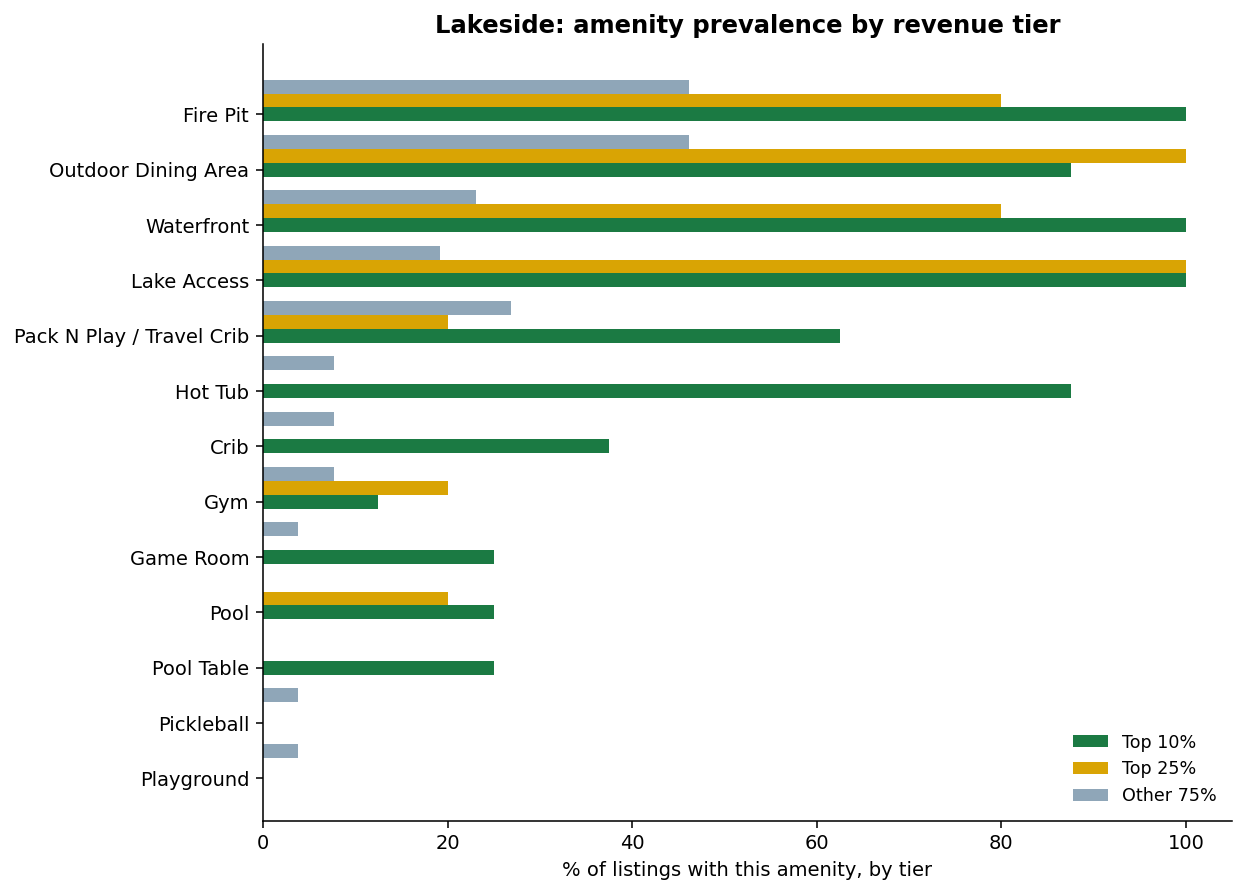
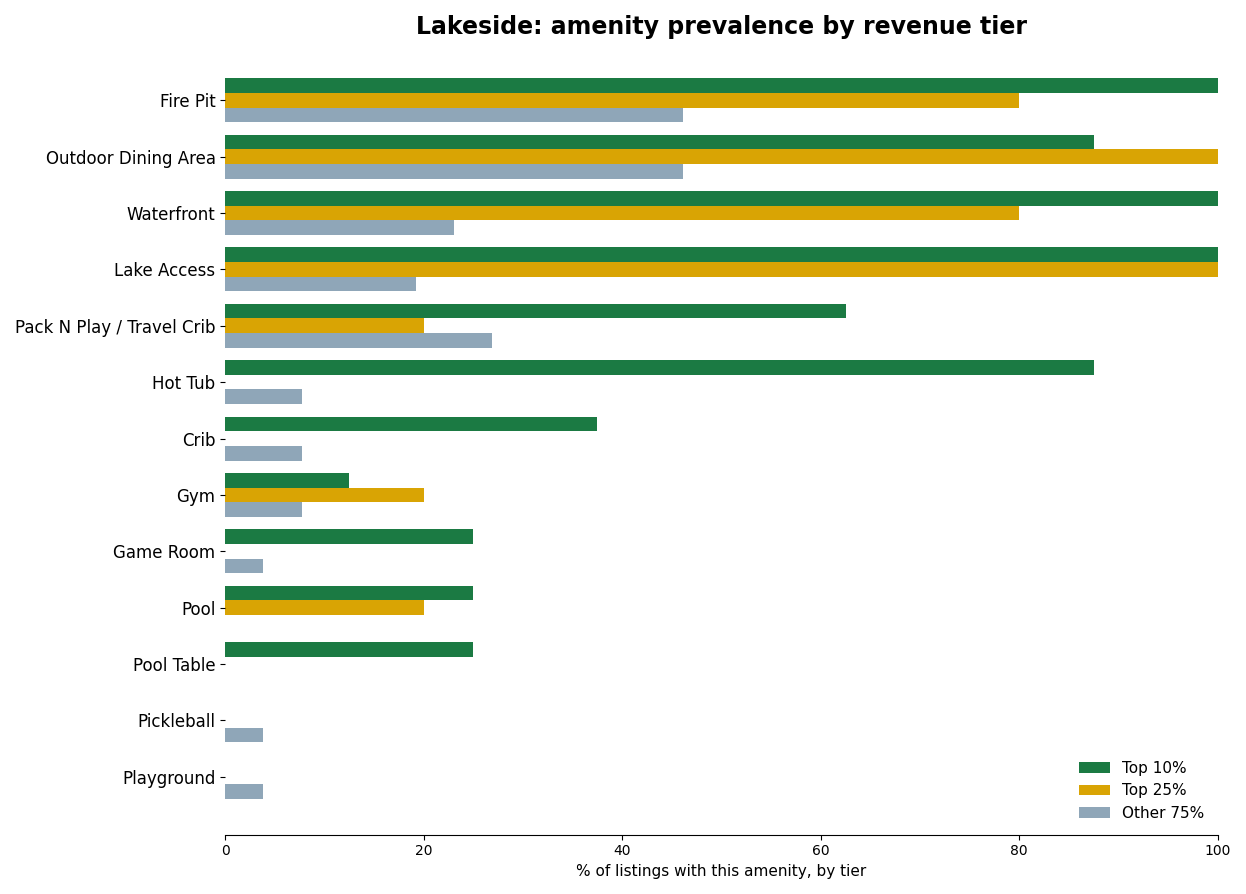
Rework Lake's amenity Must-Have/Nice-to-Have rules and add Clearwater-style amenity evidence
New Must-Have rule (per direct instruction): an amenity qualifies if it
clears EITHER bar -- >=40% penetration among Lakeside's Top 10% listings
(N=8), or >=60% presence across the whole Lakeside market (N=39). All
figures recomputed directly from Charlotte NC - Market Eval - Walid.xlsx
(Cleaned_Data_With_Region, filtered to Region=Lakeside, N=39).

Must-Have's: Fire Pit, Outdoor Dining Area, Waterfront, Lake Access,
Pack 'N Play / Travel Crib, and Hot Tub all clear the new rule (Hot Tub
and Outdoor Dining Area move up from the old Nice-to-Have ranking).
Crib does NOT clear either bar (37.5% of Top 10%, 12.8% of the whole
market) despite being on the requested must-have list -- flagged
explicitly in the section body and instead ranked as the #1 Nice-to-Have
by composite score, rather than silently forcing it into Must-Have
against the stated rule or silently dropping it.

Nice-to-Have, Ranked: minimum sample size for inclusion lowered from
N>=9 to N>=2, using the exact same composite-score methodology already
established (median revenue uplift + Top-10%-hit-rate uplift + N, each
min-max normalized). Now ranks 5 items instead of 3: Crib (0.70), Pool
Table (0.67), Game Room (0.60), Pool (0.49), Gym (0.22). Pickleball
stays excluded -- still N=1 even under the new N>=2 floor, and its one
listing actually underperforms the market without it, which directly
answers the open "maybe Pickleball?" question with data instead of
guessing.
[…]

Changed region(s): [[0.0, 0.0, 0.9759, 0.7852], [0.2135, 0.8154, 0.9759, 0.9966], [0.0915, 0.7852, 0.244, 0.906]]

diff --git a/js/data.js b/js/data.js
@@ -678,57 +678,68 @@ const BUY_BOXES = [
       {
         title: "Amenity Prevalence By Tier",
         body:
-          "<p>Fire Pit, Waterfront, and Lake Access sit at 100% among Lakeside's Top 10% and fall off sharply outside it — that gap is the Must-Have list below. Everything else either stays flat across tiers (no signal) or only partially separates Top 10% from the rest (a nice-to-have, ranked further down). The heatmap shows the same data at the individual-listing level, sorted Top 10% → Top 25% → Other 75%.</p>",
+          "<p><strong>Must-Have rule (updated):</strong> an amenity is a Must-Have if it clears <em>either</em> bar — ≥40% penetration among Lakeside's Top 10% listings (N=8), or ≥60% presence across the whole Lakeside market (N=39). Six amenities clear at least one: Fire Pit (100% Top 10% / 61.5% whole), Waterfront (100% / 46.2%), Lake Access (100% / 46.2%), Hot Tub (87.5% / 23.1%), Outdoor Dining Area (87.5% / 61.5%), and Pack 'N Play / Travel Crib (62.5% / 33.3%). <strong>Crib</strong> falls just short of both bars (37.5% Top 10% / 12.8% whole) despite being a related amenity to Pack 'N Play — it's ranked as the top Nice-to-Have below instead of a Must-Have. Everything else stays too flat across tiers to separate Top 10% from the rest. The heatmap shows the same data at the individual-listing level, sorted Top 10% → Top 25% → Other 75%.</p>",
         chartsRow: [
-          photo("lake/charts/amenity_prevalence.png", "Grouped bar chart of amenity prevalence by revenue tier for Lakeside listings", "Amenity prevalence by tier (N=39)."),
+          photo("lake/charts/amenity_prevalence.png", "Grouped bar chart of amenity prevalence by revenue tier for Lakeside listings, Top 10% drawn on top of each group", "Amenity prevalence by tier (N=39) — Top 10% (green) drawn on top of each group, then Top 25%, then Other 75%."),
           photo("lake/charts/amenity_heatmap.png", "Heatmap of amenity presence per listing, sorted Top 10% to Other 75%", "Amenity presence by individual listing (N=39)."),
         ],
       },
       {
         title: "Must-Have's",
-        body: "<p>The only amenities present in 100% of Lakeside's Top 10% listings (N=8) — everything else is a nice-to-have, ranked below.</p>",
-        items: ["Fire Pit", "Waterfront", "Lake Access"],
+        body: "<p>Clears the ≥40%-of-Top-10%-or-≥60%-of-whole-market bar above (N=8 Top 10% / N=39 whole).</p>",
+        items: ["Fire Pit", "Outdoor Dining Area", "Waterfront", "Lake Access", "Pack 'N Play / Travel Crib", "Hot Tub"],
         images: [
           photo("lake/firepit/beach-firepit-dock.avif", "Small fire bowl on a sandy lake beach with a dock in the background", "A fire pit set up right at the water's edge — Fire Pit and Waterfront together, not two separate features here."),
           photo("lake/firepit/beach-firepit-chairs.avif", "Adirondack chairs around a fire pit on a sandy beach facing the lake and a dock", "Adirondack-chair fire pit seating on the beach, facing the dock."),
+          photo("lake/porch/screened-porch-firepit-table.avif", "Screened porch with a wicker sectional and a fire-pit dining table, lake visible through the windows", "Reference example: a screened porch combining outdoor dining and lounge seating."),
+          photo("lake/hottub/covered-porch-lake-view.avif", "Hot tub on a covered porch overlooking a lake and dock", "Reference example: a covered-porch hot tub facing the lake."),
+          photo("lake/hottub/night-lit.avif", "Hot tub lit blue at night in a backyard setting", "Reference example: a nighttime hot tub setup."),
+        ],
+      },
+      // Amenity Evidence -- Clearwater's "Amenity Combination Evidence"
+      // pattern (5BR buy box), ported to Lake per direct request: a median
+      // with-vs-without revenue comparison per amenity, "where necessary" --
+      // i.e. for the ambiguous Nice-to-Have candidates only, not the
+      // Must-Haves above (already covered by the prevalence chart). This is
+      // also what settles the open "Pickleball?" question: N=1 in all of
+      // Lakeside, and that one listing underperforms -- excluded below.
+      {
+        title: "Amenity Evidence: With vs. Without",
+        body:
+          "<p>For each Nice-to-Have candidate below, Lakeside's median Revenue Potential with vs. without that amenity (N=39). Every \"with\" group is 1-5 listings — directional evidence only, not proof that the amenity itself causes the difference. This is also the evidence behind excluding Pickleball: its lone listing (N=1) actually earns less than the market without it.</p>",
+        charts: [
+          photo("lake/charts/amenity_with_without.png", "Six small bar charts, each comparing median Lakeside revenue with vs. without one amenity: Pool Table, Game Room, Pool, Crib, Gym, and Pickleball", "Pool Table (+280%), Game Room (+250%), Pool (+168%), and Crib (+173%) show the strongest separation; Gym (+24%) is marginal; Pickleball (-3%) is negative and N=1."),
         ],
       },
       // Nice-to-Have, Ranked -- Clearwater's 5BR structure (score / revenue
       // uplift / Top-10%-hit-rate uplift / N per item, thin-data items
       // flagged rather than dropped, no Auto-Add tier). Score here is our
-      // own transparent composite (revenue uplift + hit-rate uplift +
-      // sample size, each min-max normalized across the rankable amenities)
-      // since Clearwater's exact weights weren't supplied to us -- same
-      // shape, our own math. Photos pending for every item -- add via
-      // photo(relPath, alt, caption) into each item's `images` once supplied.
+      // own transparent composite (median revenue uplift + Top-10%-hit-rate
+      // uplift + sample size, each min-max normalized across the rankable
+      // amenities) since Clearwater's exact weights weren't supplied to us
+      // -- same shape, same math as before, just re-run with the new N≥2
+      // floor and Crib/Gym/Pool/Game Room/Pool Table now included (Hot Tub,
+      // Outdoor Dining Area, and Pack 'N Play moved up to Must-Have above).
       {
         // No outer `title` here -- niceToHaveRankedBlock() already renders
         // its own "Nice-to-Have, Ranked" <h4>, so an outer <h3> with the
         // same text would just duplicate the heading.
         ranked: {
-          note: "Ranked by composite score among amenities with N≥9 in Lakeside; everything thinner is flagged, not dropped, matching Clearwater's own treatment of its thin amenities (Movie Theater, Sauna, Golf Simulator). Photos pending for every item.",
+          note: "N≥2 is now the minimum to rank in Lakeside (was N≥9) — everything thinner (N≤1) is flagged, not dropped, matching Clearwater's own treatment of its thin amenities (Movie Theater, Sauna, Golf Simulator). Photos pending for Crib and Gym.",
           items: [
-            { name: "Hot Tub", score: 0.67, revenueUplift: "+191%", p90Uplift: "+74pp", n: 9, note: "By far the strongest signal in Lakeside — 78% of hot-tub-flagged listings reach the market's Top 10%, vs. 3% without. N=9 is still small; treat as directional, not proven.", images: [
-              photo("lake/hottub/covered-porch-lake-view.avif", "Hot tub on a covered porch overlooking a lake and dock", "Reference example: a covered-porch hot tub facing the lake."),
-              photo("lake/hottub/night-lit.avif", "Hot tub lit blue at night in a backyard setting", "Reference example: a nighttime hot tub setup."),
-            ] },
-            { name: "Outdoor Dining Area", score: 0.37, revenueUplift: "+40%", p90Uplift: "+23pp", n: 24, note: "Already the region's most common non-must-have amenity (24 of 39) — a real but smaller relative lift than Hot Tub.", images: [
-              photo("lake/porch/screened-porch-firepit-table.avif", "Screened porch with a wicker sectional and a fire-pit dining table, lake visible through the windows", "Reference example: a screened porch combining outdoor dining and lounge seating."),
-            ] },
-            { name: "Pack 'N Play / Travel Crib", score: 0.12, revenueUplift: "+24%", p90Uplift: "+27pp", n: 13, note: "Weakest of the rankable amenities — present, but not a strong differentiator here.", images: [] },
-            { name: "Crib", n: 5, thinData: true, note: "N=5, too thin to rank reliably.", images: [] },
-            { name: "Gym", n: 4, thinData: true, note: "N=4, too thin to rank reliably.", images: [] },
-            { name: "Pool", n: 3, thinData: true, note: "N=3, too thin to rank reliably.", images: [
-              photo("lake/pool/aerial-kidney-pool.avif", "Aerial view of a kidney-shaped pool with a screened porch and brick patio", "Reference example: a kidney-shaped pool and brick patio."),
-            ] },
-            { name: "Game Room", n: 3, thinData: true, note: "N=3, too thin to rank reliably.", images: [
-              photo("lake/gameroom/game-room-sign.avif", "Game room with a pool table, sectional sofa, and arcade cabinet under a GAME ROOM sign", "Reference example: a dedicated game room with a pool table and arcade cabinet."),
-            ] },
-            { name: "Pool Table", n: 2, thinData: true, note: "N=2, too thin to rank reliably.", images: [
+            { name: "Crib", score: 0.70, revenueUplift: "+173%", p90Uplift: "+45pp", n: 5, note: "Highest score of any Nice-to-Have — falls just short of the Must-Have bars above (37.5% of Top 10%, 12.8% of the whole market) but shows the strongest revenue signal.", images: [] },
+            { name: "Pool Table", score: 0.67, revenueUplift: "+280%", p90Uplift: "+84pp", n: 2, note: "Smallest sample of any ranked item (N=2), but both pool-table listings reach the market's Top 10% — the highest hit-rate uplift here.", images: [
               photo("lake/pooltable/lake-view-room.avif", "Living room with a pool table and sectional sofa, sliding doors opening to a lake and dock view", "Reference example: a pool table room opening directly onto a lake/dock view."),
             ] },
-            { name: "Pickleball", n: 1, thinData: true, note: "N=1, too thin to rank reliably.", images: [] },
-            { name: "Playground", n: 1, thinData: true, note: "N=1, too thin to rank reliably.", images: [] },
+            { name: "Game Room", score: 0.60, revenueUplift: "+250%", p90Uplift: "+50pp", n: 3, note: "Second-highest revenue uplift of any Nice-to-Have, on N=3.", images: [
+              photo("lake/gameroom/game-room-sign.avif", "Game room with a pool table, sectional sofa, and arcade cabinet under a GAME ROOM sign", "Reference example: a dedicated game room with a pool table and arcade cabinet."),
+            ] },
+            { name: "Pool", score: 0.49, revenueUplift: "+168%", p90Uplift: "+50pp", n: 3, note: "Strong revenue signal, same hit-rate uplift as Game Room, on N=3.", images: [
+              photo("lake/pool/aerial-kidney-pool.avif", "Aerial view of a kidney-shaped pool with a screened porch and brick patio", "Reference example: a kidney-shaped pool and brick patio."),
+            ] },
+            { name: "Gym", score: 0.22, revenueUplift: "+24%", p90Uplift: "+5pp", n: 4, note: "Weakest signal of the rankable amenities — present, but a marginal differentiator here.", images: [] },
+            { name: "Pickleball", n: 1, thinData: true, note: "N=1 in all of Lakeside — below even the new N≥2 minimum, and that one listing has lower revenue than the market without it (see Amenity Evidence chart above). Not recommended, despite being a common ask.", images: [] },
+            { name: "Playground", n: 1, thinData: true, note: "N=1, below the new N≥2 minimum.", images: [] },
             { name: "Sauna", n: 0, thinData: true, note: "Never observed in Lakeside (N=0).", images: [] },
             { name: "Mini Golf", n: 0, thinData: true, note: "Never observed in Lakeside (N=0).", images: [] },
             { name: "Movie Theater", n: 0, thinData: true, note: "Never observed in Lakeside (N=0).", images: [] },

diff --git a/index.html b/index.html
@@ -7,7 +7,7 @@
 <link rel="stylesheet" href="https://unpkg.com/leaflet@1.9.4/dist/leaflet.css" />
 <link rel="preconnect" href="https://fonts.googleapis.com" />
 <link href="https://fonts.googleapis.com/css2?family=Inter:wght@400;500;600;700&display=swap" rel="stylesheet" />
-<link rel="stylesheet" href="css/styles.css?v=20260907-hero1" />
+<link rel="stylesheet" href="css/styles.css?v=20260908-amen1" />
 </head>
 <body>
 
@@ -61,7 +61,7 @@
     <div class="container">
       <p class="section-kicker">Section 3</p>
       <h2>Location Analysis</h2>
-      <iframe class="embedded-map embedded-map--tall" src="assets/overview/charlotte_overview_map.html?v=20260907-hero1" loading="lazy" title="Interactive map of Charlotte STR revenue tiers, Downtown/Outskirts/Lakeside regions, and demand-driver landmarks"></iframe>
+      <iframe class="embedded-map embedded-map--tall" src="assets/overview/charlotte_overview_map.html?v=20260908-amen1" loading="lazy" title="Interactive map of Charlotte STR revenue tiers, Downtown/Outskirts/Lakeside regions, and demand-driver landmarks"></iframe>
       <div id="map-interpretation" class="section-interpretation"></div>
     </div>
   </section>
@@ -140,10 +140,10 @@
 
 <script src="https://unpkg.com/leaflet@1.9.4/dist/leaflet.js"></script>
 <script src="https://cdn.jsdelivr.net/npm/chart.js@4.4.4/dist/chart.umd.min.js"></script>
-<script src="js/data.js?v=20260907-hero1"></script>
-<script src="js/render.js?v=20260907-hero1"></script>
-<script src="js/charts.js?v=20260907-hero1"></script>
-<script src="js/map.js?v=20260907-hero1"></script>
-<script src="js/main.js?v=20260907-hero1"></script>
+<script src="js/data.js?v=20260908-amen1"></script>
+<script src="js/render.js?v=20260908-amen1"></script>
+<script src="js/charts.js?v=20260908-amen1"></script>
+<script src="js/map.js?v=20260908-amen1"></script>
+<script src="js/main.js?v=20260908-amen1"></script>
 </body>
 </html>
